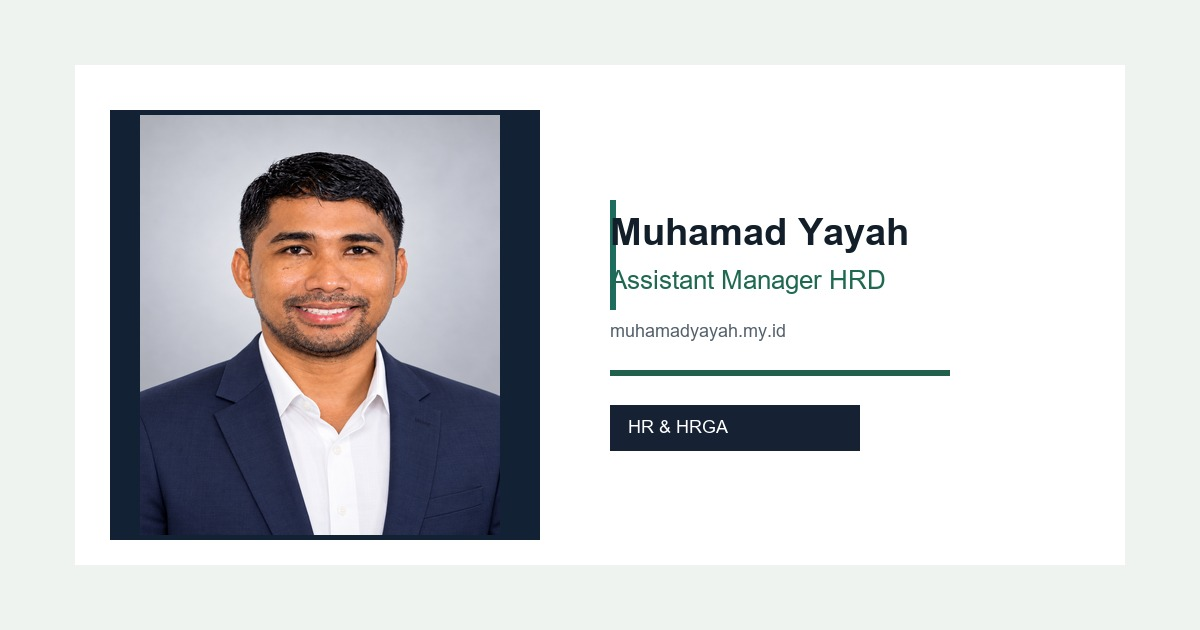
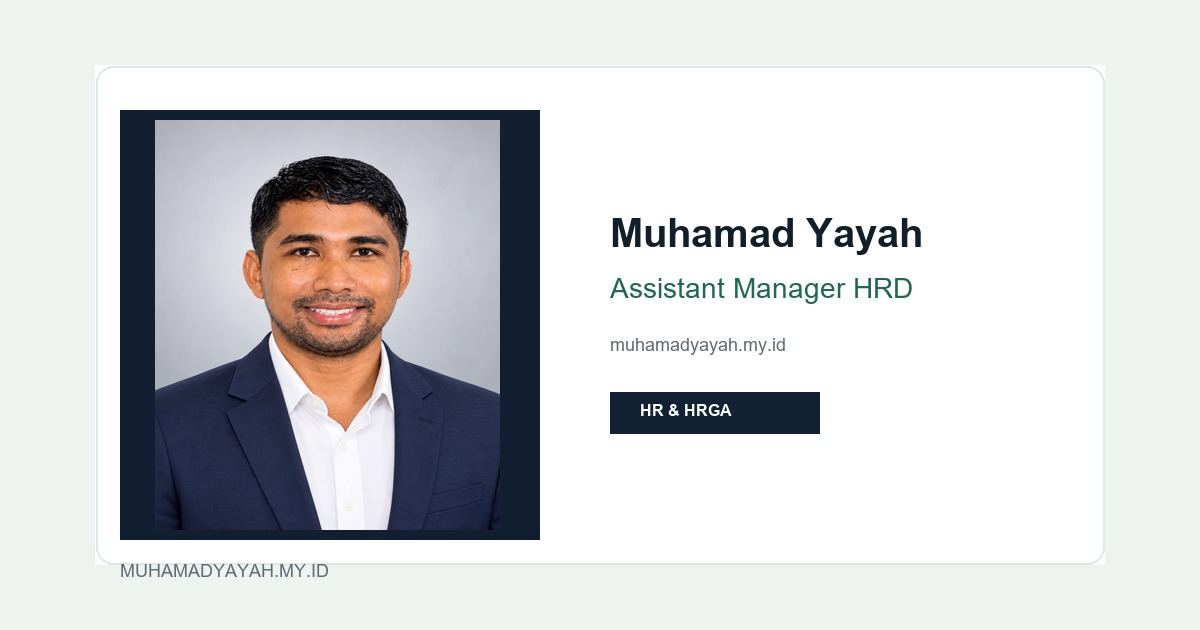
update preview og

diff --git a/scripts/create_og_image.py b/scripts/create_og_image.py
@@ -6,59 +6,56 @@ portrait_path = r"E:\Helping People\Ayah\Portfolio\src\assets\muhamad-yayah-form
 
 bg = Image.new("RGB", (WIDTH, HEIGHT), (239, 243, 240))
 
-# Main card
-card = Image.new("RGB", (1050, 500), (255, 255, 255))
-bg.paste(card, (75, 65))
+# main premium card container
+card = Image.new("RGB", (1010, 500), (255, 255, 255))
+shadow = Image.new("RGBA", (1010, 500), (0, 0, 0, 24))
+shadow_draw = ImageDraw.Draw(shadow)
+shadow_draw.rounded_rectangle((0, 0, 1010, 500), radius=18, fill=(0, 0, 0, 24))
+# add subtle shadow behind white card
+bg.paste(shadow.convert("RGB"), (95, 65), shadow)
 
-# Left navy panel
-navy = Image.new("RGB", (430, 430), (18, 33, 52))
-bg.paste(navy, (110, 110))
+a = Image.new("RGB", (1010, 500), (255, 255, 255))
+card_draw = ImageDraw.Draw(a)
+card_draw.rounded_rectangle((0, 0, 1010, 500), radius=18, fill=(255, 255, 255))
+card_draw.rounded_rectangle((1, 1, 1009, 499), radius=17, outline=(223, 232, 228), width=2)
+bg.paste(a, (95, 65))
 
-# Portrait image
+# navy panel for portrait
+navy = Image.new("RGB", (420, 430), (18, 31, 49))
+bg.paste(navy, (120, 110))
+
+# portrait image
 portrait = Image.open(portrait_path).convert("RGBA")
-portrait = portrait.resize((360, 420), Image.Resampling.LANCZOS)
-portrait_bg = Image.new("RGBA", (430, 430), (0, 0, 0, 0))
-portrait_bg.paste(portrait, (30, 5), portrait)
-# white border around portrait area
-border = Image.new("RGBA", (430, 430), (255, 255, 255, 255))
-# soft shadow effect using a slightly offset dark overlay
-shadow = Image.new("RGBA", (430, 430), (15, 20, 26, 70))
-shadow_mask = Image.new("L", (430, 430), 0)
-# keep simple and stable
-bg.paste(portrait_bg.convert("RGB"), (110, 110), portrait_bg)
+portrait = portrait.resize((345, 410), Image.Resampling.LANCZOS)
+portrait_bg = Image.new("RGBA", (420, 430), (0, 0, 0, 0))
+portrait_bg.paste(portrait, (35, 10), portrait)
+bg.paste(portrait_bg.convert("RGB"), (120, 110), portrait_bg)
 
-# Accent panel line
-accent = Image.new("RGB", (6, 110), (29, 108, 92))
-bg.paste(accent, (610, 200))
-
-# Title and subtitle text
+# clean text panel with no side line
 try:
-    font_title = ImageFont.truetype("C:/Windows/Fonts/arialbd.ttf", 38)
-    font_sub = ImageFont.truetype("C:/Windows/Fonts/arial.ttf", 26)
+    font_title = ImageFont.truetype("C:/Windows/Fonts/arialbd.ttf", 40)
+    font_sub = ImageFont.truetype("C:/Windows/Fonts/arial.ttf", 28)
     font_url = ImageFont.truetype("C:/Windows/Fonts/arial.ttf", 18)
+    font_tag = ImageFont.truetype("C:/Windows/Fonts/arialbd.ttf", 16)
 except Exception:
     font_title = ImageFont.load_default()
     font_sub = ImageFont.load_default()
     font_url = ImageFont.load_default()
+    font_tag = ImageFont.load_default()
 
-# Title text block
-text_color = (18, 31, 42)
-sub_color = (31, 104, 82)
-draw = ImageDraw.Draw(bg)
-draw.text((610, 210), "Muhamad Yayah", fill=text_color, font=font_title)
-draw.text((610, 265), "Assistant Manager HRD", fill=sub_color, font=font_sub)
-draw.text((610, 320), "muhamadyayah.my.id", fill=(82, 96, 108), font=font_url)
+text_draw = ImageDraw.Draw(bg)
+text_draw.text((610, 210), "Muhamad Yayah", fill=(18, 31, 42), font=font_title)
+text_draw.text((610, 272), "Assistant Manager HRD", fill=(31, 104, 82), font=font_sub)
+text_draw.text((610, 334), "muhamadyayah.my.id", fill=(93, 104, 112), font=font_url)
 
-# Bottom subtle bar
-bar = Image.new("RGB", (340, 6), (34, 96, 78))
-bg.paste(bar, (610, 370))
+# minimal tag pill without side accent line
+pill = Image.new("RGB", (210, 42), (18, 33, 52))
+bg.paste(pill, (610, 392))
+text_draw.text((640, 401), "HR & HRGA", fill=(255, 255, 255), font=font_tag)
 
-# Small badge text
-badge = Image.new("RGB", (250, 46), (22, 33, 52))
-bg.paste(badge, (610, 405))
-draw.text((628, 416), "HR & HRGA", fill=(255, 255, 255), font=font_url)
+# subtle footer label
+text_draw.text((120, 560), "MUHAMADYAYAH.MY.ID", fill=(94, 108, 120), font=font_url)
 
-# Save image
 bg = bg.resize((1200, 630), Image.Resampling.LANCZOS)
 bg.save(output_path, quality=92)
 print(f"Created OG image: {output_path}")
